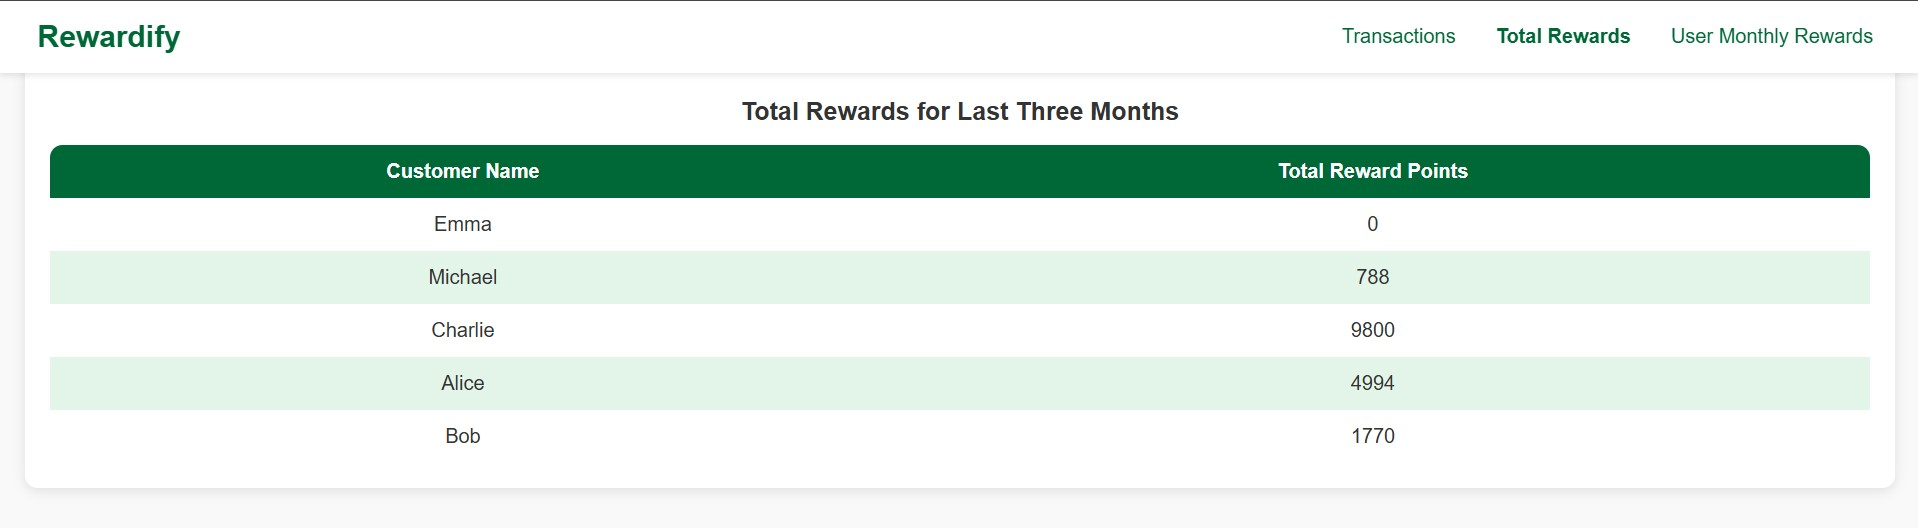
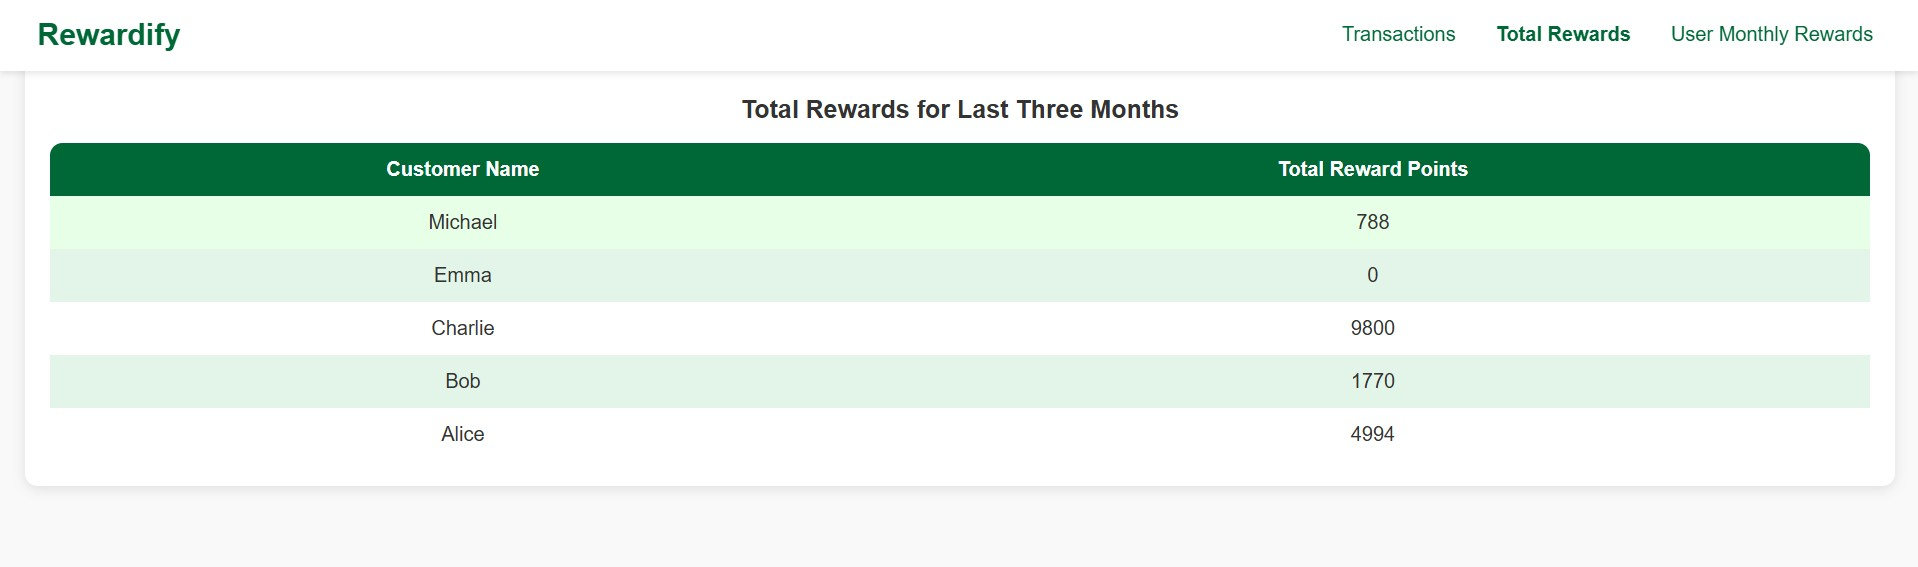
worked on review comments

diff --git a/src/components/TransactionDetails.js b/src/components/TransactionDetails.js
@@ -1,10 +1,16 @@
 import React from "react";
 import PropTypes from "prop-types";
-import { calculatePoints, formatPrice } from "../utils/RewardPointsCalculation";
+import { calculatePoints, formatPrice, sortByFieldName } from "../utils/Utils";
 import ErrorNotification from "./common/ErrorNotification";
 
 const TransactionDetails = ({ transactions }) => {
-  return !transactions?.length ? (
+  const sortedTransactions = sortByFieldName(
+    transactions,
+    "purchaseDate",
+    "date"
+  );
+
+  return !sortedTransactions?.length ? (
     <ErrorNotification message="No Transaction Found" />
   ) : (
     <div className="card">
@@ -23,7 +29,7 @@ const TransactionDetails = ({ transactions }) => {
           </tr>
         </thead>
         <tbody>
-          {transactions?.map((transaction) => {
+          {sortedTransactions?.map((transaction) => {
             return (
               <tr key={transaction.id}>
                 <td>{transaction.id}</td>
@@ -31,7 +37,9 @@ const TransactionDetails = ({ transactions }) => {
                 <td>{transaction.purchaseDate}</td>
                 <td>{transaction.productName}</td>
                 <td>${formatPrice(transaction.price)}</td>
-                <td className="right-aligned">{calculatePoints(transaction.price)}</td>
+                <td className="right-aligned">
+                  {calculatePoints(transaction.price)}
+                </td>
               </tr>
             );
           })}

diff --git a/src/components/TotalRewards.js b/src/components/TotalRewards.js
@@ -1,12 +1,20 @@
 import React, { useMemo } from "react";
 import PropTypes from "prop-types";
-import { calculateLastThreeMonthsTotalRewards } from "../utils/RewardPointsCalculation";
+import {
+  calculateLastThreeMonthsTotalRewards,
+  sortByFieldName,
+} from "../utils/Utils";
 import ErrorNotification from "./common/ErrorNotification";
 
 const TotalRewards = ({ transactions }) => {
-  const totalRewards = useMemo(
-    () => calculateLastThreeMonthsTotalRewards(transactions),
+  // Sort transactions by customerID (string type)
+  const sortedTransactions = useMemo(
+    () => sortByFieldName(transactions, "customerID", "string"),
     [transactions]
+  );
+  const totalRewards = useMemo(
+    () => calculateLastThreeMonthsTotalRewards(sortedTransactions),
+    [sortedTransactions]
   );
   return totalRewards.size === 0 ? (
     <ErrorNotification message="No Total Rewards Found" />

diff --git a/src/utils/Utils.js b/src/utils/Utils.js
@@ -1,3 +1,34 @@
+// Helper function to sort data
+export const sortByFieldName = (data, fieldName, dataType) => {
+  if (!Array.isArray(data)) {
+    return null;
+  }
+
+  // Deep clone the data
+  const clonedData = JSON.parse(JSON.stringify(data));
+
+  // Sorting logic based on data type
+  clonedData.sort((a, b) => {
+    if (!(fieldName in a) || !(fieldName in b)) return 0; // Handle missing fields
+
+    let valueA = a[fieldName];
+    let valueB = b[fieldName];
+
+    switch (dataType) {
+      case "date":
+        return new Date(valueB) - new Date(valueA); // Descending order
+
+      case "string":
+        return valueB.localeCompare(valueA); // Descending order
+
+      default:
+        return 0;
+    }
+  });
+
+  return clonedData;
+};
+
 // Helper function to formate price
 export function formatPrice(price) {
   const validPrice = parseFloat(price);

diff --git a/src/components/MonthRewards.js b/src/components/MonthRewards.js
@@ -1,12 +1,17 @@
 import React, { useMemo } from "react";
-import { aggregateMonthlyRewards } from "../utils/RewardPointsCalculation";
+import { aggregateMonthlyRewards, sortByFieldName } from "../utils/Utils";
 import PropTypes from "prop-types";
 import ErrorNotification from "./common/ErrorNotification";
 
 const MonthRewards = ({ transactions }) => {
-  const monthlyRewards = useMemo(
-    () => aggregateMonthlyRewards(transactions),
+  // Sort transactions by customerID (string type)
+  const sortedTransactions = useMemo(
+    () => sortByFieldName(transactions, "customerID", "string"),
     [transactions]
+  );
+  const monthlyRewards = useMemo(
+    () => aggregateMonthlyRewards(sortedTransactions),
+    [sortedTransactions]
   );
   return monthlyRewards.size === 0 ? (
     <ErrorNotification message="No Monthly Transaction Found" />

diff --git a/src/index.js b/src/index.js
@@ -1,15 +1,11 @@
-import React from 'react';
-import ReactDOM from 'react-dom/client';
-import './index.css';
-import App from './App';
-import reportWebVitals from './reportWebVitals';
+import React from "react";
+import ReactDOM from "react-dom/client";
+import "./index.css";
+import App from "./App";
+import reportWebVitals from "./reportWebVitals";
 
-const root = ReactDOM.createRoot(document.getElementById('root'));
-root.render(
-  <React.StrictMode>
-    <App />
-  </React.StrictMode>
-);
+const root = ReactDOM.createRoot(document.getElementById("root"));
+root.render(<App />);
 
 // If you want to start measuring performance in your app, pass a function
 // to log results (for example: reportWebVitals(console.log))

diff --git a/src/utils/Services.js b/src/utils/Services.js
@@ -10,11 +10,7 @@ export const fetchTransactions = async () => {
       throw new Error(`HTTP error! Status: ${response.status}`);
     }
     const data = await response.json();
-    const clonedData = JSON.parse(JSON.stringify(data.TRANSACTION_DATA));
-    const sortedTransactions = clonedData.sort(
-      (a, b) => new Date(b.purchaseDate) - new Date(a.purchaseDate)
-    );
-    return sortedTransactions;
+    return data.TRANSACTION_DATA;
   } catch (err) {
     logger.error("Failed to load transactions...", err);
     throw err;

diff --git a/src/components/__test__/TotalRewards.test.js b/src/components/__test__/TotalRewards.test.js
@@ -1,7 +1,7 @@
 import React from "react";
 import { render, screen } from "@testing-library/react";
 import TotalRewards from "../TotalRewards";
-import { calculatePoints } from "../../utils/RewardPointsCalculation";
+import { calculatePoints } from "../../utils/Utils";
 
 describe("TotalRewards Component", () => {
   test("renders total rewards table correctly for last three months (Jan 2024 - Jan 2025)", () => {

diff --git a/src/components/__test__/MonthRewards.test.js b/src/components/__test__/MonthRewards.test.js
@@ -1,7 +1,7 @@
 import React from "react";
 import { render, screen } from "@testing-library/react";
 import MonthRewards from "../MonthRewards";
-import { calculatePoints } from "../../utils/RewardPointsCalculation";
+import { calculatePoints } from "../../utils/Utils";
 
 describe("MonthRewards Component", () => {
   test("renders monthly rewards correctly", () => {

diff --git a/src/components/__test__/TransactionDetails.test.js b/src/components/__test__/TransactionDetails.test.js
@@ -4,7 +4,7 @@ import TransactionDetails from "../TransactionDetails";
 import {
   calculatePoints,
   formatPrice,
-} from "../../utils/RewardPointsCalculation";
+} from "../../utils/Utils";
 
 describe("TransactionDetails Component", () => {
   beforeEach(() => {

diff --git a/README.md b/README.md
@@ -83,7 +83,7 @@ price | string or number | The price of the purchased product.
 
 aggregateMonthlyRewards(transactions) - Groups transactions by customerName, month, and year. Uses calculatePoints(price) to determine reward points per transaction. Sums the reward points for each unique customer-month-year combination.
 
-<img src="./public/media/MonthlyRewards.jpg"/>
+<img src="./public/media/MonthRewards.jpg"/>
 
 If transactions prop is empty then it will show below error.
 
